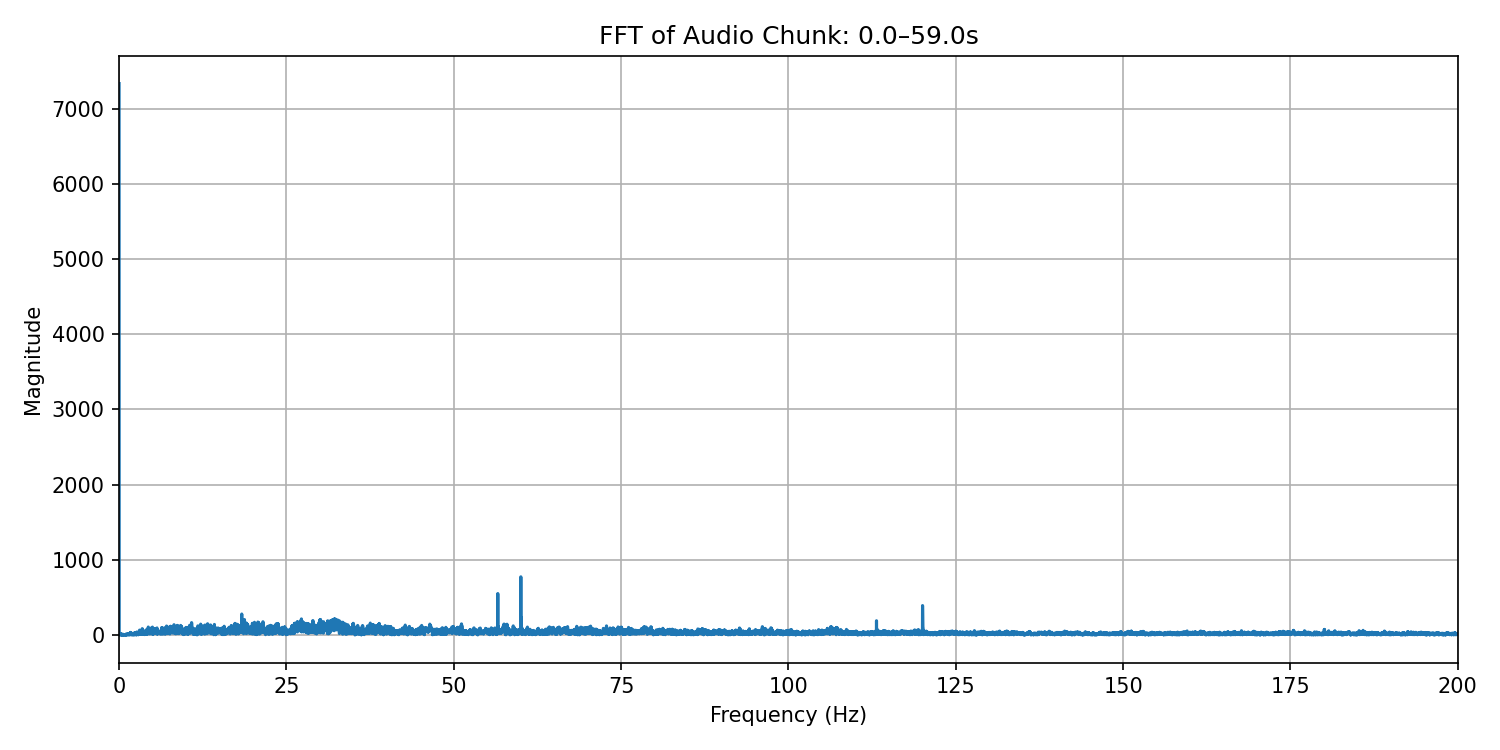
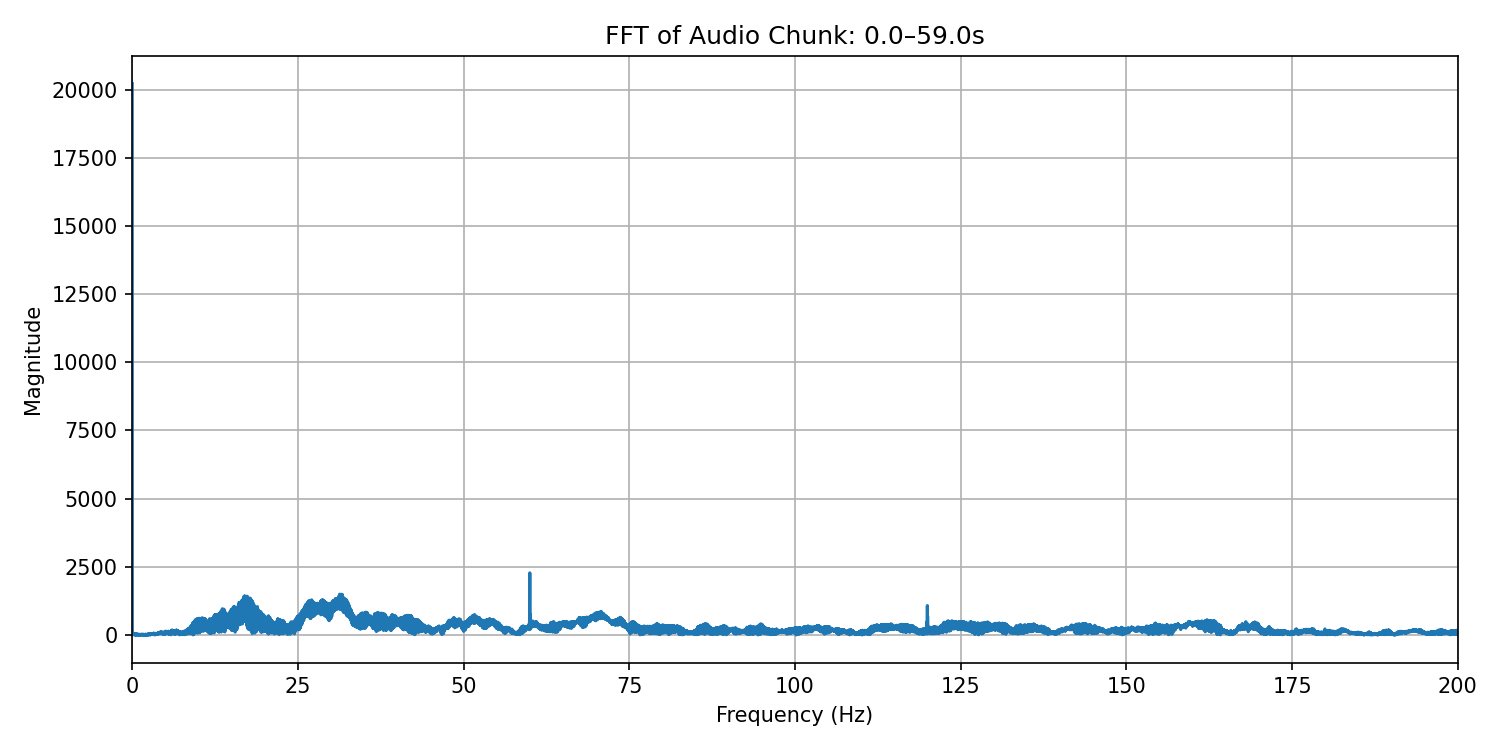
testing magnitude vs. fft methods on different file

diff --git a/visualize_fft.py b/visualize_fft.py
@@ -4,10 +4,11 @@ import matplotlib.pyplot as plt
 import os
 
 # === Config ===
-AUDIO_FILE = "recordings/audio_2025-04-01_07-26-49.wav"
+# AUDIO_FILE = "recordings/audio_2025-04-01_07-26-49.wav"
+AUDIO_FILE = "recordings/audio_2025-04-01_12-48-49.wav"
 START_TIME = 0.0     # seconds (cannon should start here)
 DURATION = 59.0       # seconds (chunk length)
-SAMPLERATE = 16000
+SAMPLERATE = 44100
 OUTPUT_FILE = "fft_cannon_plot.png"
 
 

diff --git a/visualize_magnitude.py b/visualize_magnitude.py
@@ -4,7 +4,8 @@ import matplotlib.pyplot as plt
 
 # === Config ===
 # AUDIO_FILE = "recordings/audio_2025-04-01_07-26-49.wav"   # ← Update this
-AUDIO_FILE = "recordings/audio_2025-04-01_07-27-49.wav"   # ← Update this
+# AUDIO_FILE = "recordings/audio_2025-04-01_07-27-49.wav"   # ← Update this
+AUDIO_FILE = "recordings/audio_2025-04-01_12-48-49.wav"
 SAMPLERATE = 44100
 CHUNK_DURATION = 0.5  # seconds
 LOW_FREQ_BAND = (30, 80)
